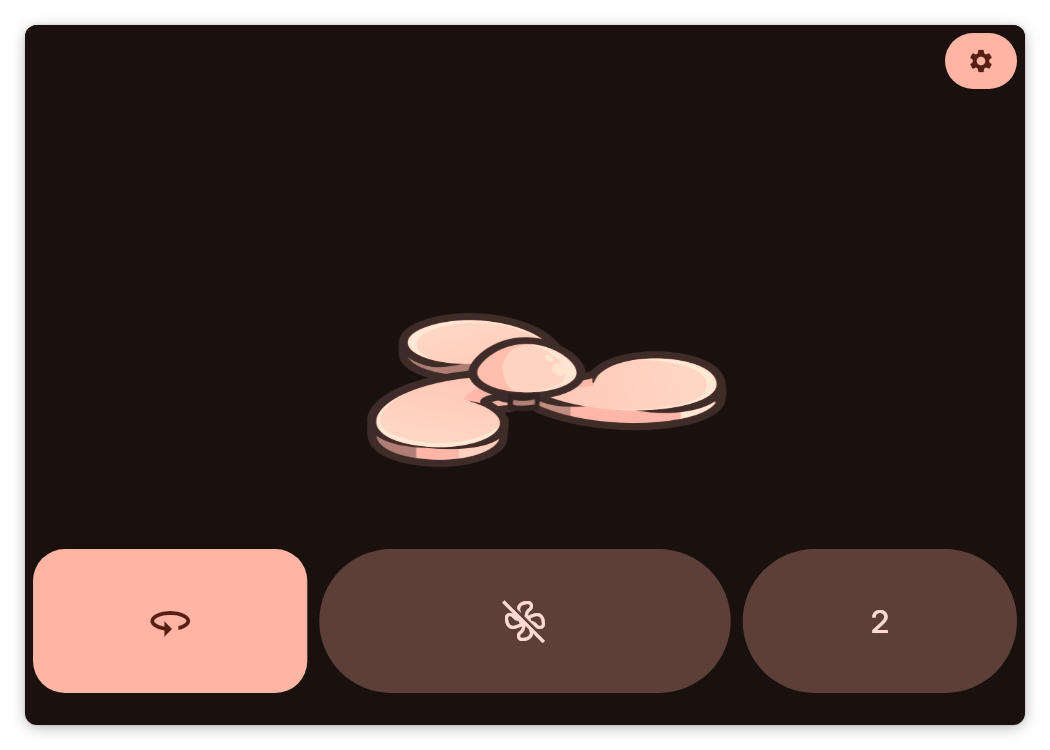
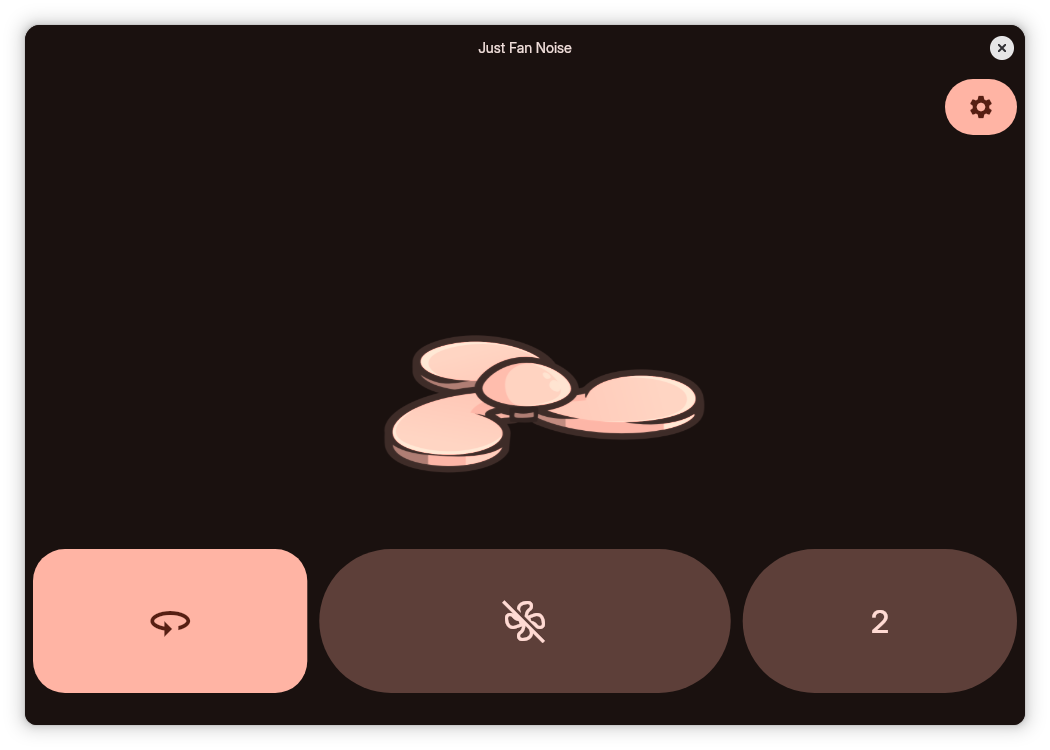
chore: update dependencies

Changed region(s): [[0.3352, 0.3987, 0.701, 0.644], [0.8838, 0.0307, 0.9752, 0.184], [0.4571, 0.0613, 0.5486, 0.092]]

diff --git a/test/app_store_screenshots_test.dart b/test/app_store_screenshots_test.dart
@@ -19,7 +19,12 @@ void main() {
       name: '1_home',
       runApp: (tester, device) async {
         await tester.pumpWidget(
-          ScreenshotApp(device: device, theme: theme, home: const HomePage()),
+          ScreenshotApp.withConditionalTitlebar(
+            device: device,
+            theme: theme,
+            title: 'Just Fan Noise',
+            home: const HomePage(),
+          ),
         );
       },
     );
@@ -28,7 +33,12 @@ void main() {
       name: '2_settings',
       runApp: (tester, device) async {
         await tester.pumpWidget(
-          ScreenshotApp(device: device, theme: theme, home: const HomePage()),
+          ScreenshotApp.withConditionalTitlebar(
+            device: device,
+            theme: theme,
+            title: 'Just Fan Noise',
+            home: const HomePage(),
+          ),
         );
         await tester.tap(find.byKey(const Key('settings_button')));
       },
@@ -38,9 +48,10 @@ void main() {
       name: '3_credits',
       runApp: (tester, device) async {
         await tester.pumpWidget(
-          ScreenshotApp(
+          ScreenshotApp.withConditionalTitlebar(
             device: device,
             theme: theme,
+            title: 'Just Fan Noise',
             home: const CreditsPage(),
           ),
         );

diff --git a/macos/Flutter/GeneratedPluginRegistrant.swift b/macos/Flutter/GeneratedPluginRegistrant.swift
@@ -7,18 +7,14 @@ import Foundation
 
 import audio_service
 import audio_session
-import screen_retriever_macos
 import shared_preferences_foundation
 import sqflite_darwin
 import url_launcher_macos
-import window_manager
 
 func RegisterGeneratedPlugins(registry: FlutterPluginRegistry) {
   AudioServicePlugin.register(with: registry.registrar(forPlugin: "AudioServicePlugin"))
   AudioSessionPlugin.register(with: registry.registrar(forPlugin: "AudioSessionPlugin"))
-  ScreenRetrieverMacosPlugin.register(with: registry.registrar(forPlugin: "ScreenRetrieverMacosPlugin"))
   SharedPreferencesPlugin.register(with: registry.registrar(forPlugin: "SharedPreferencesPlugin"))
   SqflitePlugin.register(with: registry.registrar(forPlugin: "SqflitePlugin"))
   UrlLauncherPlugin.register(with: registry.registrar(forPlugin: "UrlLauncherPlugin"))
-  WindowManagerPlugin.register(with: registry.registrar(forPlugin: "WindowManagerPlugin"))
 }

diff --git a/lib/pages/settings_dialog.dart b/lib/pages/settings_dialog.dart
@@ -72,7 +72,7 @@ class _SettingsSubtitle extends StatelessWidget {
       child: Row(
         children: [
           Expanded(child: Text(text, style: TextTheme.of(context).titleMedium)),
-          if (trailing != null) trailing!,
+          ?trailing,
         ],
       ),
     );

diff --git a/linux/flutter/generated_plugin_registrant.cc b/linux/flutter/generated_plugin_registrant.cc
@@ -6,26 +6,10 @@
 
 #include "generated_plugin_registrant.h"
 
-#include <gtk/gtk_plugin.h>
-#include <screen_retriever_linux/screen_retriever_linux_plugin.h>
 #include <url_launcher_linux/url_launcher_plugin.h>
-#include <window_manager/window_manager_plugin.h>
-#include <yaru_window_linux/yaru_window_linux_plugin.h>
 
 void fl_register_plugins(FlPluginRegistry* registry) {
-  g_autoptr(FlPluginRegistrar) gtk_registrar =
-      fl_plugin_registry_get_registrar_for_plugin(registry, "GtkPlugin");
-  gtk_plugin_register_with_registrar(gtk_registrar);
-  g_autoptr(FlPluginRegistrar) screen_retriever_linux_registrar =
-      fl_plugin_registry_get_registrar_for_plugin(registry, "ScreenRetrieverLinuxPlugin");
-  screen_retriever_linux_plugin_register_with_registrar(screen_retriever_linux_registrar);
   g_autoptr(FlPluginRegistrar) url_launcher_linux_registrar =
       fl_plugin_registry_get_registrar_for_plugin(registry, "UrlLauncherPlugin");
   url_launcher_plugin_register_with_registrar(url_launcher_linux_registrar);
-  g_autoptr(FlPluginRegistrar) window_manager_registrar =
-      fl_plugin_registry_get_registrar_for_plugin(registry, "WindowManagerPlugin");
-  window_manager_plugin_register_with_registrar(window_manager_registrar);
-  g_autoptr(FlPluginRegistrar) yaru_window_linux_registrar =
-      fl_plugin_registry_get_registrar_for_plugin(registry, "YaruWindowLinuxPlugin");
-  yaru_window_linux_plugin_register_with_registrar(yaru_window_linux_registrar);
 }

diff --git a/windows/flutter/generated_plugin_registrant.cc b/windows/flutter/generated_plugin_registrant.cc
@@ -6,15 +6,9 @@
 
 #include "generated_plugin_registrant.h"
 
-#include <screen_retriever_windows/screen_retriever_windows_plugin_c_api.h>
 #include <url_launcher_windows/url_launcher_windows.h>
-#include <window_manager/window_manager_plugin.h>
 
 void RegisterPlugins(flutter::PluginRegistry* registry) {
-  ScreenRetrieverWindowsPluginCApiRegisterWithRegistrar(
-      registry->GetRegistrarForPlugin("ScreenRetrieverWindowsPluginCApi"));
   UrlLauncherWindowsRegisterWithRegistrar(
       registry->GetRegistrarForPlugin("UrlLauncherWindows"));
-  WindowManagerPluginRegisterWithRegistrar(
-      registry->GetRegistrarForPlugin("WindowManagerPlugin"));
 }
